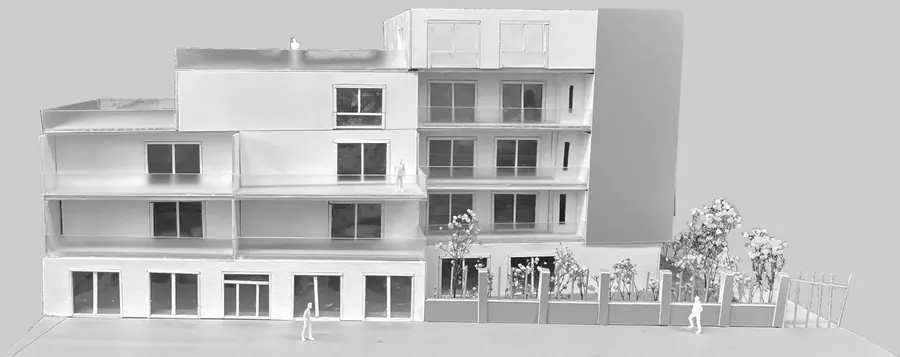
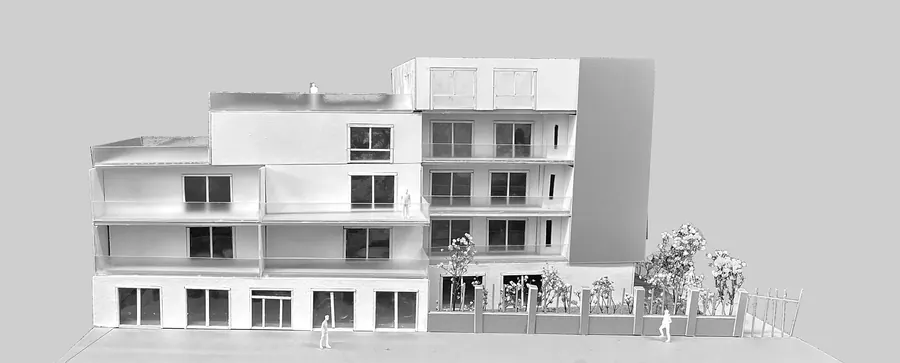
La Palestra : maquette rapprochée du titre ; Résidence jardins : maquette mise en valeur
Claude-Session: https://claude.ai/code/session_013PfFhaaiQTpQb93kGRB6QJ

diff --git a/l2s1/index.html b/l2s1/index.html
@@ -37,7 +37,7 @@
 	<h1>Résidence jardins</h1>
 	<dl class="p-meta"><div><dt>Année</dt><dd>2025</dd></div><div><dt>Cadre</dt><dd>Licence 2<br>École Spéciale d’Architecture</dd></div><div><dt>Lieu</dt><dd>Montreuil</dd></div><div><dt>Programme</dt><dd>30 logements, du T2 au T5</dd></div></dl>
 </div>
-<figure class="p-hero contain grey"><img src="../assets/img/residence-hero.webp" srcset="../assets/img/residence-hero-900.webp 900w, ../assets/img/residence-hero.webp 2000w" sizes="100vw" alt="Résidence jardins — maquette" width="2000" height="793" fetchpriority="high" decoding="async" data-full="../assets/img/residence-hero.webp"></figure>
+<figure class="p-hero contain grey"><img src="../assets/img/residence-hero.webp" srcset="../assets/img/residence-hero-900.webp 900w, ../assets/img/residence-hero.webp 2400w" sizes="100vw" alt="Résidence jardins — maquette" width="2400" height="969" fetchpriority="high" decoding="async" data-full="../assets/img/residence-hero.webp"></figure>
 <div class="wrap">
 	<section class="p-text has-side"><span class="label">Le projet</span><div class="body reveal"><p class="lead">Ce projet de logements situé à Montreuil développe 30 logements organisés autour de trois jardins principaux, avec l’idée de placer la végétation et les espaces extérieurs au centre de l’habitat et du quotidien des habitants.</p><p>Dès ma première visite du site, ce qui m’a marquée est la manière dont la végétation s’immisce dans les interstices urbains, le long des clôtures et entre les différentes constructions. Cette présence discrète mais forte a guidé ma réflexion et m’a amenée à concevoir une architecture en continuité avec le paysage existant.</p><p>Les logements, du T2 au T5, s’organisent autour de cours et d’espaces extérieurs qui prolongent les usages du logement vers l’extérieur. Chaque appartement dispose d’un balcon, d’une loggia, d’une terrasse ou d’un jardin privé, permettant d’apporter de la lumière naturelle, d’ouvrir les vues et de créer différentes manières d’habiter.</p><p>Le projet cherche ainsi à offrir des espaces traversants, lumineux et ouverts, tout en proposant une densité urbaine capable de préserver une qualité de vie quotidienne.</p></div><figure class="side reveal"><img src="../assets/img/residence-plan.webp" alt="Résidence jardins — plan masse" width="846" height="1098" loading="lazy" decoding="async" data-full="../assets/img/residence-plan.webp"><figcaption>Plan masse</figcaption></figure></section>
 	<div class="gallery">

diff --git a/intensif/index.html b/intensif/index.html
@@ -37,7 +37,7 @@
 	<h1>La Palestra</h1>
 	<dl class="p-meta"><div><dt>Année</dt><dd>2026</dd></div><div><dt>Cadre</dt><dd>Licence 2 · semaine intensive<br>École Spéciale d’Architecture</dd></div><div><dt>Référence</dt><dd>Palestra di Losone<br>Livio Vacchini</dd></div><div><dt>Travail</dt><dd>Analyse et maquette collective</dd></div></dl>
 </div>
-<figure class="p-hero natural"><img src="../assets/img/palestra-hero.webp" srcset="../assets/img/palestra-hero-900.webp 900w, ../assets/img/palestra-hero.webp 2000w" sizes="100vw" alt="La Palestra — maquette, façade et entrée" width="2000" height="1033" fetchpriority="high" decoding="async" data-full="../assets/img/palestra-hero.webp"></figure>
+<figure class="p-hero natural"><img src="../assets/img/palestra-hero.webp" srcset="../assets/img/palestra-hero-900.webp 900w, ../assets/img/palestra-hero.webp 2000w" sizes="100vw" alt="La Palestra — maquette, façade et entrée" width="2000" height="941" fetchpriority="high" decoding="async" data-full="../assets/img/palestra-hero.webp"></figure>
 <div class="wrap">
 	<section class="p-text"><span class="label">Le projet</span><div class="body reveal"><p class="lead">En deuxième année, nous avons travaillé lors d’une semaine intensive en groupe autour de la Palestra di Losone, conçue par Livio Vacchini.</p><p>Ce projet nous a amenés à analyser son architecture, notamment la rigueur de sa structure et la simplicité de ses formes, puis à en proposer une interprétation à travers la réalisation d’une maquette.</p><p>Ce travail collectif nous a permis de développer une réflexion commune et une compréhension concrète du projet architectural.</p></div></section>
 	<div class="gallery">

diff --git a/assets/style.css b/assets/style.css
@@ -368,9 +368,10 @@ a:hover .more .arrow, .more:hover .arrow { transform: translateX(6px); }
 }
 
 /* Résidence jardins : fond gris de la maquette, sans cadre */
-.p-hero.contain.grey { background: rgb(205, 205, 205); }
-.p-hero.contain.grey img { padding: 0; max-height: 78vh; }
+.p-hero.contain.grey { background: rgb(207, 207, 207); }
+.p-hero.contain.grey img { padding: 0; width: 100%; max-height: none; }
 /* La Palestra : titre plus proche de l’image */
-.tone-beige .p-head { padding-bottom: clamp(24px, 3vw, 36px); }
+.tone-beige .p-head { padding-bottom: clamp(12px, 1.5vw, 20px); }
+.tone-beige .p-meta { margin-top: clamp(28px, 4vw, 48px); }
 /* Matière et texture : planche à côté du texte */
 .p-text.tex .side img { filter: drop-shadow(0 14px 22px rgba(0, 0, 0, .12)); }
